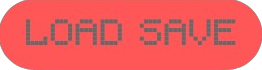
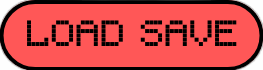
Add Better Images

Changed region(s): [[0.0, 0.0, 1.0, 1.0], [0.5191, 0.2571, 0.916, 0.6571], [0.0916, 0.2571, 0.4885, 0.6571]]

diff --git a/src/MainMenu.cpp b/src/MainMenu.cpp
@@ -4,7 +4,8 @@ using std::cout;
 using std::endl;
 
 MainMenu::MainMenu() {  
-    background = LoadTexture("img/background.png");
+    background = LoadTexture("img/button/background.png");
+    gameName = LoadTexture("img/button/gameName.png");
     playButton = LoadTexture("img/button/PlayNormal.png");
     playButtonHover = LoadTexture("img/button/PlayHover.png");
     loadSaveButton = LoadTexture("img/button/LoadSaveNormal.png");
@@ -27,6 +28,7 @@ int MainMenu::showMenu() { // 1 = play, 2 = load, 3 = scoreboard, 4 = settings, 
     BeginDrawing();
     ClearBackground(RAYWHITE);
     DrawTexture(background, 0, 0, WHITE);
+    DrawTexture(gameName, (float)(GetScreenWidth() / 2 - gameName.width / 2), 120, WHITE);
     mouseLocation = GetMousePosition();
     if (CheckCollisionPointRec(mouseLocation, playButtonBounds)) {
         DrawTexture(playButtonHover, (float)(GetScreenWidth() / 2 - playButton.width / 2), (float)(GetScreenHeight() / 2 - playButton.height), WHITE);
@@ -89,6 +91,7 @@ int MainMenu::showMenu() { // 1 = play, 2 = load, 3 = scoreboard, 4 = settings, 
 
 MainMenu::~MainMenu() {
     UnloadTexture(background);
+    UnloadTexture(gameName);
     UnloadTexture(playButton);
     UnloadTexture(playButtonHover);
     UnloadTexture(loadSaveButton);

diff --git a/src/MainMenu.h b/src/MainMenu.h
@@ -8,6 +8,7 @@ using std::string;
 class MainMenu {
     private:
         Texture2D background;
+        Texture2D gameName;
         Texture2D playButton;
         Texture2D playButtonHover;
         Texture2D loadSaveButton;
